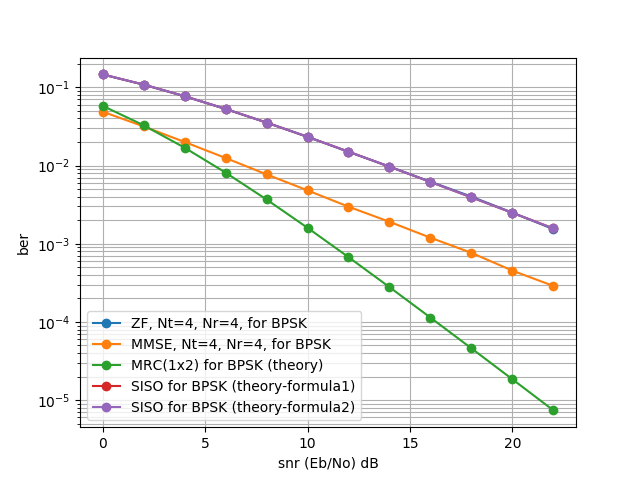
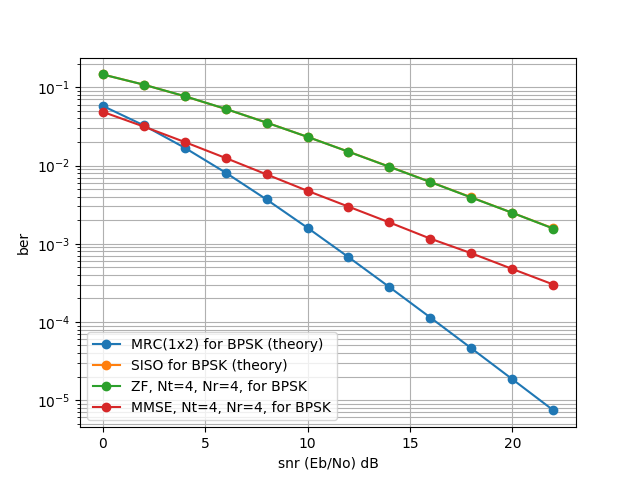
跑完4x4 MIMO ZF、MMSE detection的模擬

diff --git a/MIMO/detection/ZF and MMSE detection/ZF_MMSE detection with antenna selection.py b/MIMO/detection/ZF and MMSE detection/ZF_MMSE detection with antenna selection.py
@@ -4,19 +4,37 @@ import numpy as np
 import matplotlib.pyplot as plt
 
 
-snr_db = [0]*10
-snr = [0]*10
-ber = [0]*10
-Nt = 4          # 傳送端天線數
+snr_db = [0]*12
+snr = [0]*len(snr_db)
+ber = [0]*len(snr_db)
+Nt = 8          # 傳送端天線數
 Nt_select = 2   # 實際上會從Nt跟天線中選Nt_select跟天線來送data
 Nr = 2          # 接收端天線數
-N = 1000000 #執行N次來找錯誤率
-for i in range(10):
+N = 10000 #執行N次來找錯誤率
+for i in range(len(snr_db)):
     snr_db[i] = 2*i
     snr[i] = np.power(10,snr_db[i]/10)
 
+# 決定BPSK的星座點
 constellation = [-1, 1]
 constellation_name = 'BPSK'
+# 定義QPSK星座點
+#constellation = [ -1-1j, -1+1j, 1-1j, 1+1j ]
+#constellation_name="QPSK"
+# 定義16QAM星座點
+constellation = [1+1j,1+3j,3+1j,3+3j,-1+1j,-1+3j,-3+1j,-3+3j,-1-1j,-1-3j,-3-1j,-3-3j,1-1j,1-3j,3-1j,3-3j]
+constellation_name='16QAM'
+# 16QAM時MMSE的錯誤率會出問題!?
+'''
+# 接著定義64QAM星座點
+constellation_new = [-7 , -5, -3, -1, 1, 3, 5, 7]
+constellation_name = '64QAM'
+constellation = []
+for i in range(len(constellation_new)):
+    for j in range(len(constellation_new)):
+        constellation += [constellation_new[i] + 1j*constellation_new[j]]
+'''
+
 
 for k in range(6):
     for i in range(len(snr)):
@@ -42,6 +60,37 @@ for k in range(6):
             continue
         else:
             if k == 2 or k == 3 :# 此時不採用antenna selection，所以傳送端只有Nt_select根天線而不是Nt根天線
+
+                # 此時傳送端不採用antenna selection，而接收端採用zero forcing or MMSE detection
+                # 因為我們的data資料夾中有2x2及4x4的MIMO with zero forcing  & MMSE detection模擬結果
+                # 所以可拿出來使用
+                draw = 0  # draw變數用來告訴我們是否已經成功讀取數據並畫出圖形
+                if Nr == 2 or Nr == 4:
+                    if k == 2:
+                        f = open('./data/ZF detection for {0} (Nt={1}, Nr={2}).dat'.format(constellation_name, Nt_select,Nr))
+                    elif k == 3:
+                        f = open('./data/MMSE detection for {0} (Nt={1}, Nr={2}).dat'.format(constellation_name, Nt_select, Nr))
+                    # 以下的步驟都是讀取數據
+                    f.readline()
+                    snr_db_string = f.readline()[:-2]
+                    snr_db_list = snr_db_string.split(' ')
+                    for m in range(len(snr_db_list)):
+                        snr_db_list[m] = float(snr_db_list[m])
+                    f.readline()
+                    ber_string = f.readline()[:-2]
+                    ber_list = ber_string.split(' ')
+                    for m in range(len(ber_list)):
+                        ber_list[m] = float(ber_list[m])
+                    # 接下來利用讀出來的數據畫出圖形
+                    if k == 2:
+                        plt.semilogy(snr_db_list, ber_list, marker='o', label='ZF, Nt={0}, Nr={1}, for {2}'.format(Nt_select, Nr, constellation_name))
+                    elif k == 3:
+                        plt.semilogy(snr_db_list, ber_list, marker='o', label='MMSE, Nt={0}, Nr={1}, for {2}'.format(Nt_select, Nr, constellation_name))
+                    draw = 1    # 代表成功畫出圖形
+                    f.close()   # 關閉檔案
+                    break;
+
+                # 若data資料夾中沒有此模擬的數據就要真的來模擬了
                 # 這裡採用 Nt_select x Nr 的MIMO系統，所以通道矩陣為 Nr x Nt_select
                 H = [[0j] * Nt_select for i in range(Nr)]
                 H = np.matrix(H)
@@ -49,7 +98,7 @@ for k in range(6):
                 y = [0] * Nr              # 接收端的向量
 
 
-            else:                # 此時有採用antenna selection，所以傳送端共有Nt根天線，會從其中Nt_select根天線來送data
+            else:   # 此時有採用antenna selection，所以傳送端共有Nt根天線，會從其中Nt_select根天線來送data
                 # 這裡採用 Nt x Nr 的MIMO系統，所以通道矩陣為 Nr x Nt
                 H = [[0j] * Nt for i in range(Nr)]                  # H代表尚未選擇天線前的channel matrix
                 H = np.matrix(H)
@@ -114,14 +163,14 @@ for k in range(6):
                         W = ((H.getH() * H) ** (-1)) * H.getH()  # W為 Nt _select x Nr 矩陣
                     elif k == 3:  # 執行MMSE detection
                         # 決定MMSE 的weight matrix
-                        W = ((H.getH() * H + 1 / snr[i] * np.identity(Nt_select)) ** (-1)) * H.getH()  # W為 Nt_select x Nr 矩陣
+                        W = Es * (Es * H.getH() * H + No * np.identity(Nt_select)).I * H.getH()  # W為 Nt_select x Nr 矩陣
                 else: # 此時採用antenna selection
                     if k == 4:  # 執行ZF detection
                         # 決定ZF 的weight matrix
                         W = ((actual_H.getH() * actual_H) ** (-1)) * actual_H.getH()  # W為 Nt_select x Nr 矩陣
                     elif k == 5:  # 執行MMSE detection
                         # 決定MMSE 的weight matrix
-                        W = ((actual_H.getH() * actual_H + 1 / snr[i] * np.identity(Nt_select)) ** (-1)) * actual_H.getH()  # W為 Nt_select x Nr 矩陣
+                        W = Es * (Es * actual_H.getH() * actual_H + No * np.identity(Nt_select)).I * actual_H.getH()  # W為 Nt_select x Nr 矩陣
 
                 # receive向量 = W矩陣 * y向量
                 receive = [0] * Nt_select
@@ -140,12 +189,34 @@ for k in range(6):
 
                     if symbol[m] != detection:
                         if constellation_name == 'BPSK':
-                            error += 1  # error為symbol error 次數
+                            error += 1  # error為bit error 次數
                         elif constellation_name == 'QPSK':
                             if abs(detection.real - symbol[m].real) == 2:
                                 error += 1
                             if abs(detection.imag - symbol[m].imag) == 2:
                                 error += 1
+                        elif constellation_name == '16QAM':
+                            if abs(detection.real - symbol[m].real) == 2 or abs(detection.real - symbol[m].real) == 6:
+                                error += 1
+                            elif abs(detection.real - symbol[m].real) == 4:
+                                error += 2
+                            if abs(detection.imag - symbol[m].imag) == 2 or abs(detection.imag - symbol[m].imag) == 6:
+                                error += 1
+                            elif abs(detection.imag - symbol[m].imag) == 4:
+                                error += 2
+                        elif constellation_name == '64QAM':
+                            if abs(detection.real - symbol[m].real) == 2 or abs(detection.real - symbol[m].real) == 6 or abs(detection.real - symbol[m].real) == 14:
+                                error += 1
+                            elif abs(detection.real - symbol[m].real) == 4 or abs(detection.real - symbol[m].real) == 8 or abs(detection.real - symbol[m].real) == 12:
+                                error += 2
+                            elif abs(detection.real - symbol[m].real) == 10:
+                                error += 3
+                            if abs(detection.imag - symbol[m].imag) == 2 or abs(detection.imag - symbol[m].imag) == 6 or abs(detection.imag - symbol[m].imag) == 14:
+                                error += 1
+                            elif abs(detection.imag - symbol[m].imag) == 4 or abs(detection.imag - symbol[m].imag) == 8 or abs(detection.imag - symbol[m].imag) == 12:
+                                error += 2
+                            elif abs(detection.imag - symbol[m].imag) == 10:
+                                error += 3
 
             ber[i] = error / (K * Nt_select * N)  # 除以K是因為一個symbol有K個bit
 
@@ -157,9 +228,11 @@ for k in range(6):
     elif k == 1:
         plt.semilogy(snr_db, ber, marker='o', linestyle='-', label='MRC(1x2) for BPSK(theory)')
     elif k == 2:
-        plt.semilogy(snr_db, ber, marker='o', label='ZF, Nt={0}, Nr={1}, for {2}'.format(Nt_select, Nr, constellation_name))
+        if draw == 0:  # 如果沒有data資料夾中沒有這個模擬，代表剛才是沒有畫圖，所以現在要畫圖
+            plt.semilogy(snr_db, ber, marker='o', label='ZF, Nt={0}, Nr={1}, for {2}'.format(Nt_select, Nr, constellation_name))
     elif k == 3:
-        plt.semilogy(snr_db, ber, marker='o', label='MMSE, Nt={0}, Nr={1}, for {2}'.format(Nt_select, Nr, constellation_name))
+        if draw == 0:  # 如果沒有data資料夾中沒有這個模擬，代表剛才是沒有畫圖，所以現在要畫圖
+            plt.semilogy(snr_db, ber, marker='o', label='MMSE, Nt={0}, Nr={1}, for {2}'.format(Nt_select, Nr, constellation_name))
     elif k == 4:
         plt.semilogy(snr_db, ber, marker='o', label='ZF, Nt/Nt_select={0}/{1}, Nr={2}, for {3}\nwith antenna selection'.format(Nt, Nt_select, Nr, constellation_name))
     elif k == 5:
